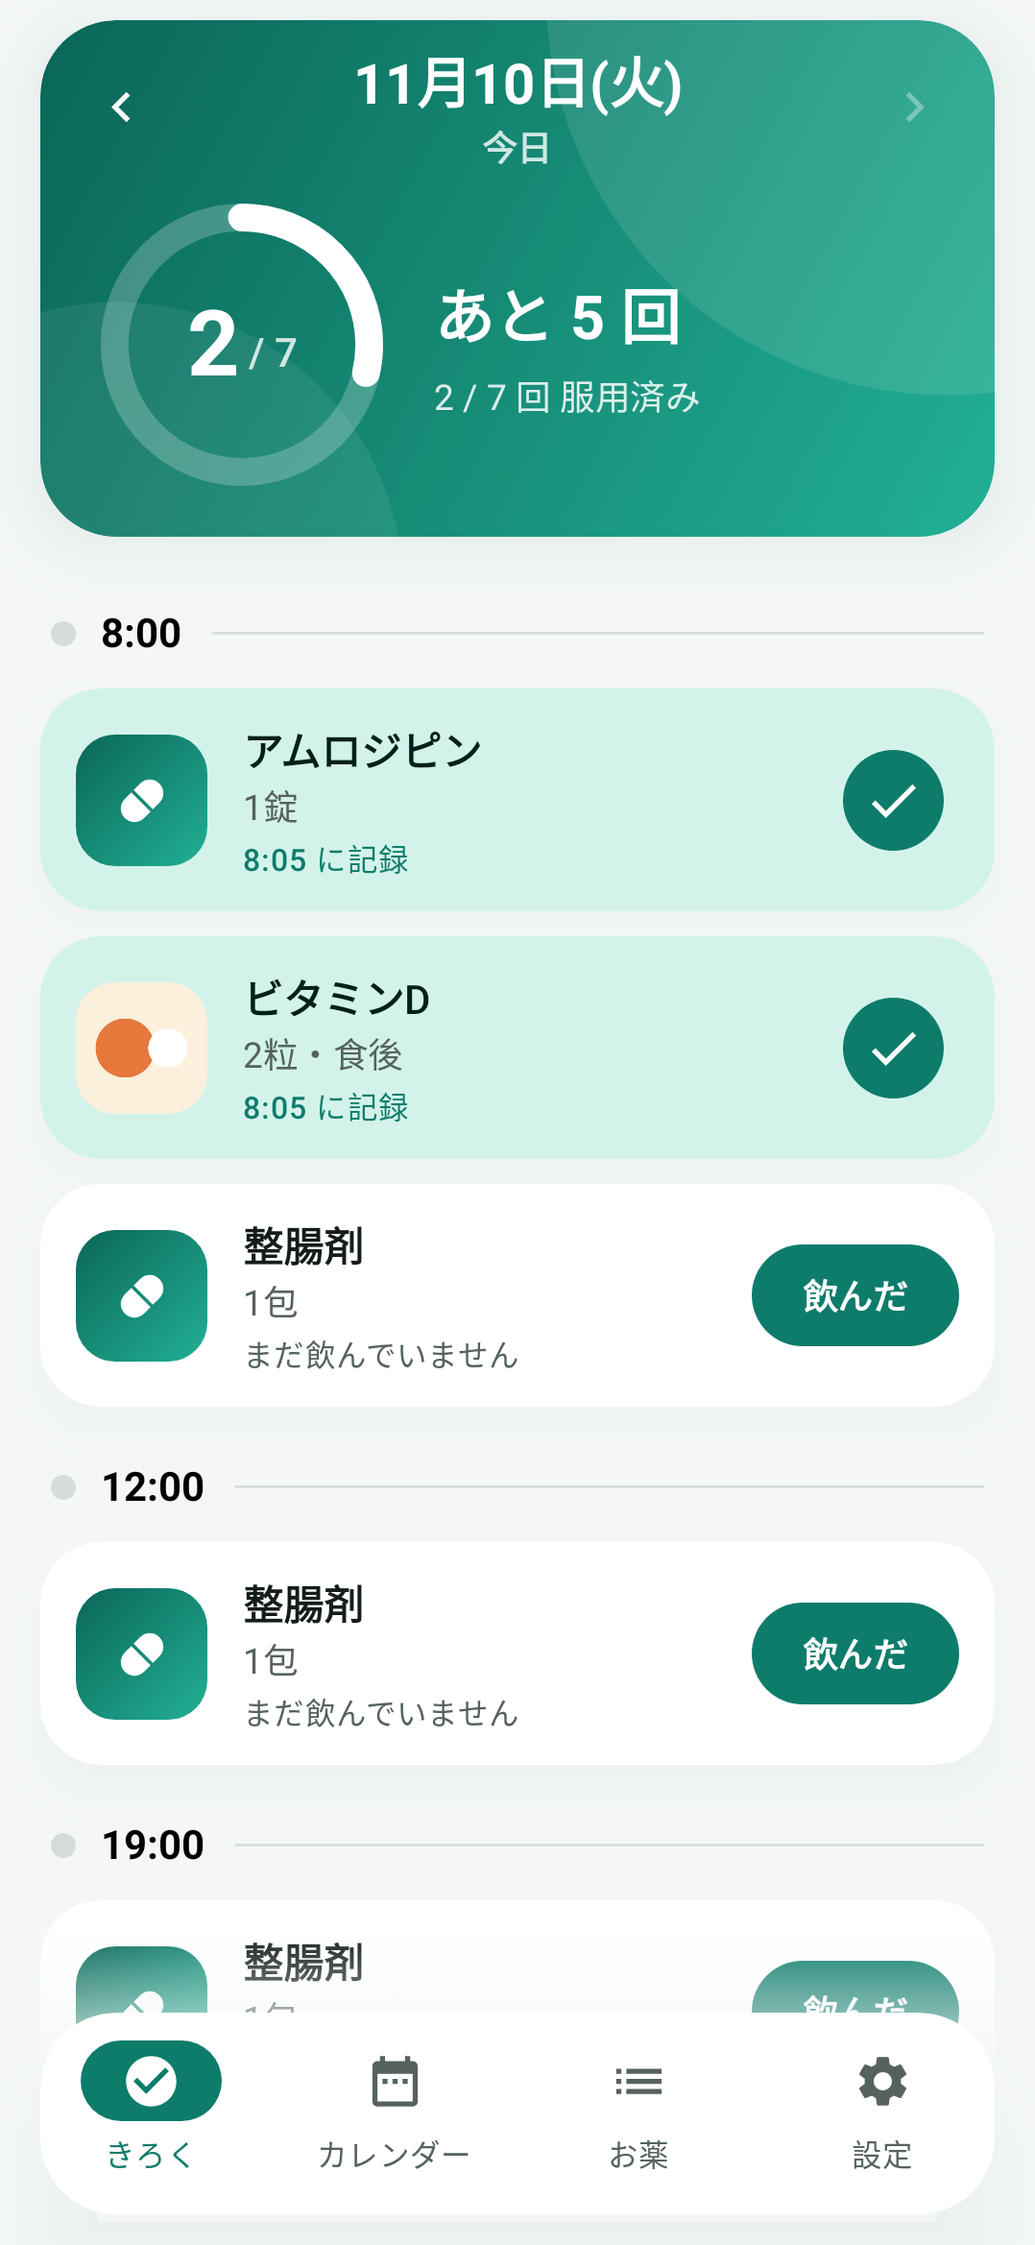
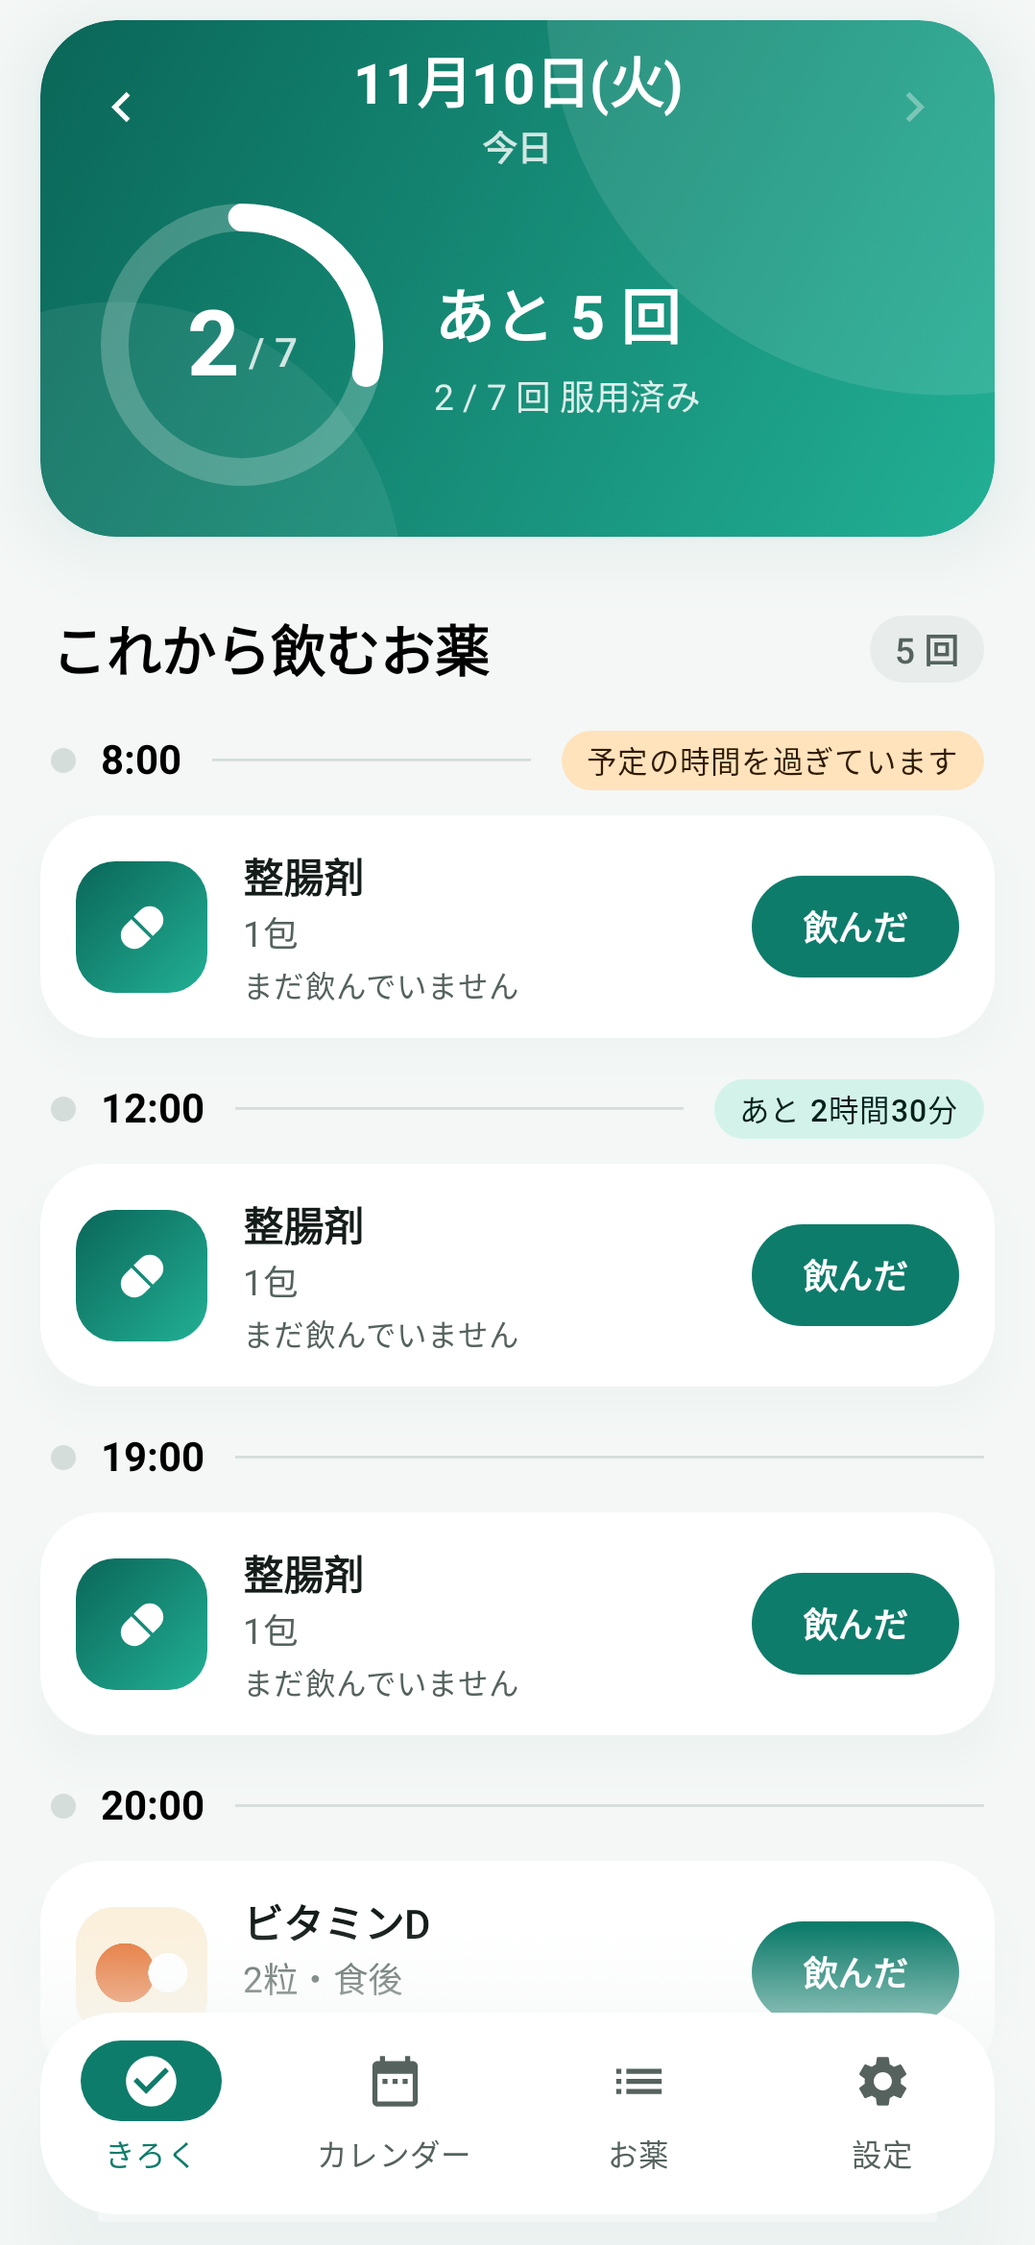
List upcoming doses first on the record screen
- Doses still to take are grouped at the top in time order; doses
  already taken move to a section below
- Overdue times are flagged and the next dose shows the time remaining,
  refreshed every minute
- Past days list unrecorded doses first, without the countdown
- The current day now rolls over while the app stays open

Claude-Session: https://claude.ai/code/session_012W76YSFN4Az95kBbBAUA25

Changed region(s): [[0.0306, 0.281, 0.9796, 0.9055], [0.7041, 0.6869, 0.949, 0.7806], [0.7041, 0.843, 0.949, 0.9055]]

diff --git a/app/src/main/java/app/okusurikiroku/ui/TodayScreen.kt b/app/src/main/java/app/okusurikiroku/ui/TodayScreen.kt
@@ -44,6 +44,7 @@ import androidx.compose.material3.IconButton
 import androidx.compose.material3.IconButtonDefaults
 import androidx.compose.material3.MaterialTheme
 import androidx.compose.material3.OutlinedButton
+import androidx.compose.material3.Surface
 import androidx.compose.material3.Text
 import androidx.compose.material3.TextButton
 import androidx.compose.runtime.Composable
@@ -84,6 +85,8 @@ fun TodayScreen(
     onDayChange: (Long) -> Unit,
     onSetTaken: (DoseEntry, Boolean) -> Unit,
     onAddMedication: () -> Unit,
+    /** 現在時刻（0時からの分）。今日を表示しているときの「あと◯分」に使う。わからなければ null。 */
+    nowMinute: Int? = null,
 ) {
     var undoTarget by remember { mutableStateOf<DoseEntry?>(null) }
     var enlarged by remember { mutableStateOf<Medication?>(null) }
@@ -133,24 +136,73 @@ fun TodayScreen(
                     ),
                     verticalArrangement = Arrangement.spacedBy(10.dp),
                 ) {
-                    entries.groupBy { it.minuteOfDay }.forEach { (minute, group) ->
-                        item(key = "time-$minute") {
-                            TimeHeader(minute = minute, group = group, modifier = Modifier.animateItem())
-                        }
-                        items(group, key = { "${it.medication.id}-${it.minuteOfDay}" }) { entry ->
-                            DoseCard(
-                                entry = entry,
+                    // これから飲む分を時間順に上へ、飲んだ分はその下へ分ける。
+                    // 記録するとカードは同じキーのまま下の区分へ移るので、動いて見える。
+                    val (pending, taken) = entries.partition { !it.taken }
+                    val now = nowMinute.takeIf { day == today }
+                    val doseCard: @Composable (DoseEntry, Modifier) -> Unit = { entry, modifier ->
+                        DoseCard(
+                            entry = entry,
+                            modifier = modifier,
+                            onClick = {
+                                if (entry.taken) {
+                                    undoTarget = entry
+                                } else {
+                                    haptics.performHapticFeedback(HapticFeedbackType.Confirm)
+                                    onSetTaken(entry, true)
+                                }
+                            },
+                            onImageClick = { enlarged = entry.medication },
+                        )
+                    }
+
+                    if (pending.isNotEmpty()) {
+                        item(key = "pending-title") {
+                            SectionHeader(
+                                title = stringResource(
+                                    if (day == today) R.string.section_upcoming else R.string.section_unrecorded,
+                                ),
+                                count = pending.size,
                                 modifier = Modifier.animateItem(),
-                                onClick = {
-                                    if (entry.taken) {
-                                        undoTarget = entry
-                                    } else {
-                                        haptics.performHapticFeedback(HapticFeedbackType.Confirm)
-                                        onSetTaken(entry, true)
-                                    }
-                                },
-                                onImageClick = { enlarged = entry.medication },
                             )
+                        }
+                        // 「あと◯分」は、まだ時間が来ていない中でいちばん早い回にだけ出す
+                        val nextMinute = now?.let { current -> pending.map { it.minuteOfDay }.filter { it >= current }.minOrNull() }
+                        pending.groupBy { it.minuteOfDay }.forEach { (minute, group) ->
+                            item(key = "pending-time-$minute") {
+                                TimeHeader(
+                                    minute = minute,
+                                    done = false,
+                                    status = when {
+                                        now == null -> null
+                                        minute < now -> DueStatus.Overdue
+                                        minute == nextMinute -> DueStatus.In(minute - now)
+                                        else -> null
+                                    },
+                                    modifier = Modifier.animateItem(),
+                                )
+                            }
+                            items(group, key = { "${it.medication.id}-${it.minuteOfDay}" }) { entry ->
+                                doseCard(entry, Modifier.animateItem())
+                            }
+                        }
+                    }
+
+                    if (taken.isNotEmpty()) {
+                        item(key = "taken-title") {
+                            SectionHeader(
+                                title = stringResource(R.string.section_taken_list),
+                                count = taken.size,
+                                modifier = Modifier.animateItem(),
+                            )
+                        }
+                        taken.groupBy { it.minuteOfDay }.forEach { (minute, group) ->
+                            item(key = "taken-time-$minute") {
+                                TimeHeader(minute = minute, done = true, status = null, modifier = Modifier.animateItem())
+                            }
+                            items(group, key = { "${it.medication.id}-${it.minuteOfDay}" }) { entry ->
+                                doseCard(entry, Modifier.animateItem())
+                            }
                         }
                     }
                 }
@@ -320,29 +372,89 @@ private fun HeroCard(day: Long, today: Long, summary: DaySummary?, onDayChange: 
     }
 }
 
-/** 時間ごとの見出し。その時間の分をすべて飲むと、丸に色がつく。 */
+/** 時間の見出しの横に出す、予定までの残り時間。 */
+private sealed interface DueStatus {
+    data object Overdue : DueStatus
+
+    data class In(val minutes: Int) : DueStatus
+}
+
+/** 「これから飲むお薬」「飲んだお薬」の区分の見出し。 */
 @Composable
-private fun TimeHeader(minute: Int, group: List<DoseEntry>, modifier: Modifier = Modifier) {
-    val taken = group.count { it.taken }
-    val dotColor by animateColorAsState(
-        if (taken == group.size) MaterialTheme.colorScheme.primary else MaterialTheme.colorScheme.outlineVariant,
-        label = "timeDot",
-    )
+private fun SectionHeader(title: String, count: Int, modifier: Modifier = Modifier) {
     Row(
         verticalAlignment = Alignment.CenterVertically,
         modifier = modifier
             .fillMaxWidth()
-            .padding(start = 4.dp, end = 4.dp, top = 10.dp),
+            .padding(start = 4.dp, end = 4.dp, top = 12.dp),
+    ) {
+        Text(title, style = MaterialTheme.typography.titleLarge, modifier = Modifier.weight(1f))
+        Surface(
+            color = MaterialTheme.colorScheme.surfaceContainerHigh,
+            contentColor = MaterialTheme.colorScheme.onSurfaceVariant,
+            shape = RoundedCornerShape(50),
+        ) {
+            Text(
+                stringResource(R.string.dose_count, count),
+                style = MaterialTheme.typography.labelLarge,
+                modifier = Modifier.padding(horizontal = 10.dp, vertical = 3.dp),
+            )
+        }
+    }
+}
+
+/** 時間ごとの見出し。飲んだ分は丸に色がつき、これから飲む分には残り時間を添える。 */
+@Composable
+private fun TimeHeader(minute: Int, done: Boolean, status: DueStatus?, modifier: Modifier = Modifier) {
+    Row(
+        verticalAlignment = Alignment.CenterVertically,
+        modifier = modifier
+            .fillMaxWidth()
+            .padding(start = 4.dp, end = 4.dp, top = 6.dp),
     ) {
         Box(
             Modifier
                 .size(10.dp)
-                .background(dotColor, CircleShape),
+                .background(
+                    if (done) MaterialTheme.colorScheme.primary else MaterialTheme.colorScheme.outlineVariant,
+                    CircleShape,
+                ),
         )
         Spacer(Modifier.width(10.dp))
         Text(formatMinutes(minute), style = MaterialTheme.typography.titleMedium, fontWeight = FontWeight.Bold)
         Spacer(Modifier.width(12.dp))
         HorizontalDivider(Modifier.weight(1f), color = MaterialTheme.colorScheme.outlineVariant)
+        if (status != null) {
+            Spacer(Modifier.width(12.dp))
+            val overdue = status is DueStatus.Overdue
+            Surface(
+                color = if (overdue) MaterialTheme.colorScheme.tertiaryContainer else MaterialTheme.colorScheme.primaryContainer,
+                contentColor = if (overdue) {
+                    MaterialTheme.colorScheme.onTertiaryContainer
+                } else {
+                    MaterialTheme.colorScheme.onPrimaryContainer
+                },
+                shape = RoundedCornerShape(50),
+            ) {
+                Text(
+                    when (status) {
+                        DueStatus.Overdue -> stringResource(R.string.overdue)
+                        is DueStatus.In -> when {
+                            status.minutes == 0 -> stringResource(R.string.due_now)
+                            status.minutes < 60 -> stringResource(R.string.due_in_minutes, status.minutes)
+                            status.minutes % 60 == 0 -> stringResource(R.string.due_in_hours, status.minutes / 60)
+                            else -> stringResource(
+                                R.string.due_in_hours_minutes,
+                                status.minutes / 60,
+                                status.minutes % 60,
+                            )
+                        }
+                    },
+                    style = MaterialTheme.typography.labelMedium,
+                    modifier = Modifier.padding(horizontal = 10.dp, vertical = 3.dp),
+                )
+            }
+        }
     }
 }
 

diff --git a/app/src/test/java/app/okusurikiroku/EffectsTest.kt b/app/src/test/java/app/okusurikiroku/EffectsTest.kt
@@ -36,6 +36,74 @@ class EffectsTest {
         Medication(id = 2, name = "整腸剤", dosage = "1包", times = listOf(480), startDay = 0),
     )
 
+    private fun top(text: String): Float =
+        compose.onNodeWithText(text).fetchSemanticsNode().boundsInRoot.top
+
+    @Test
+    fun upcomingDosesAreListedFirstInTimeOrder() {
+        val noon = Medication(id = 3, name = "ビタミンC", times = listOf(720), startDay = 0)
+        val evening = Medication(id = 4, name = "鉄剤", times = listOf(1140), startDay = 0)
+        var entries by mutableStateOf(
+            listOf(
+                DoseEntry(medications[0], 480, 1_000L), // 8:00 飲んだ
+                DoseEntry(medications[1], 480, null), // 8:00 まだ（時間を過ぎている）
+                DoseEntry(noon, 720, null), // 12:00 まだ
+                DoseEntry(evening, 1140, null), // 19:00 まだ
+            ),
+        )
+        compose.setContent {
+            OkusuriTheme(darkTheme = false) {
+                TodayScreen(
+                    day = today,
+                    today = today,
+                    entries = entries,
+                    hasMedications = true,
+                    onDayChange = {},
+                    onSetTaken = { entry, taken ->
+                        entries = entries.map { if (it == entry) it.copy(takenAt = if (taken) 2_000L else null) else it }
+                    },
+                    onAddMedication = {},
+                    nowMinute = 9 * 60 + 30,
+                )
+            }
+        }
+
+        // これから飲む分が時間順に上、飲んだ分が下
+        val order = listOf("これから飲むお薬", "整腸剤", "ビタミンC", "鉄剤", "飲んだお薬", "アムロジピン").map(::top)
+        assertEquals(order.sorted(), order)
+        // 過ぎた回と、次の回までの時間
+        compose.onNodeWithText("予定の時間を過ぎています").assertExists()
+        compose.onNodeWithText("あと 2時間30分").assertExists()
+
+        // 記録すると、そのお薬は「飲んだお薬」へ移る
+        compose.onAllNodesWithTextCompat("飲んだ").first().performClick()
+        compose.waitForIdle()
+        val after = listOf("これから飲むお薬", "ビタミンC", "鉄剤", "飲んだお薬", "アムロジピン", "整腸剤").map(::top)
+        assertEquals(after.sorted(), after)
+        compose.onNodeWithText("予定の時間を過ぎています").assertDoesNotExist()
+    }
+
+    @Test
+    fun pastDaysListUnrecordedDosesFirstWithoutCountdown() {
+        compose.setContent {
+            OkusuriTheme(darkTheme = false) {
+                TodayScreen(
+                    day = today - 1,
+                    today = today,
+                    entries = listOf(DoseEntry(medications[0], 480, 1_000L), DoseEntry(medications[1], 480, null)),
+                    hasMedications = true,
+                    onDayChange = {},
+                    onSetTaken = { _, _ -> },
+                    onAddMedication = {},
+                    nowMinute = 9 * 60 + 30,
+                )
+            }
+        }
+        compose.onNodeWithText("記録していないお薬").assertExists()
+        compose.onNodeWithText("これから飲むお薬").assertDoesNotExist()
+        compose.onNodeWithText("予定の時間を過ぎています").assertDoesNotExist()
+    }
+
     @Test
     fun takingTheLastDoseCelebratesWithConfetti() {
         var entries by mutableStateOf(

diff --git a/app/src/main/java/app/okusurikiroku/ui/App.kt b/app/src/main/java/app/okusurikiroku/ui/App.kt
@@ -52,6 +52,8 @@ import androidx.compose.material3.NavigationBarItem
 import androidx.compose.material3.Text
 import androidx.compose.runtime.Composable
 import androidx.compose.runtime.getValue
+import androidx.compose.runtime.mutableIntStateOf
+import androidx.compose.runtime.produceState
 import androidx.compose.runtime.mutableStateOf
 import androidx.compose.runtime.saveable.rememberSaveable
 import androidx.compose.runtime.setValue
@@ -65,6 +67,8 @@ import androidx.lifecycle.compose.collectAsStateWithLifecycle
 import androidx.lifecycle.viewmodel.compose.viewModel
 import app.okusurikiroku.R
 import app.okusurikiroku.reminder.Reminders
+import java.time.LocalTime
+import kotlinx.coroutines.delay
 
 enum class Tab(val labelRes: Int, val icon: ImageVector) {
     TODAY(R.string.tab_today, Icons.Filled.CheckCircle),
@@ -98,10 +102,22 @@ fun OkusuriAppUi(viewModel: AppViewModel = viewModel(factory = AppViewModel.Fact
     val activeMedications = allMedications?.filter { !it.isArchived }
 
     val hasReminders = activeMedications?.any { it.reminderEnabled && (it.periodEnd ?: Long.MAX_VALUE) >= today } == true
+    // 画面に戻るたびに数え直す。現在時刻を読み直すきっかけにもする
+    var resumeCount by remember { mutableIntStateOf(0) }
     LifecycleResumeEffect(Unit) {
         viewModel.onResume()
         notice = reminderNotice(context)
+        resumeCount++
         onPauseOrDispose { }
+    }
+    // 現在時刻（0時からの分）。「あと◯分」の表示のため、分が変わるたびに更新する
+    val nowMinute by produceState(initialValue = currentMinuteOfDay(), resumeCount) {
+        value = currentMinuteOfDay()
+        while (true) {
+            delay((60 - LocalTime.now().second) * 1000L)
+            value = currentMinuteOfDay()
+            viewModel.refreshToday()
+        }
     }
     val permissionLauncher = rememberLauncherForActivityResult(ActivityResultContracts.RequestPermission()) {
         notice = reminderNotice(context)
@@ -155,6 +171,7 @@ fun OkusuriAppUi(viewModel: AppViewModel = viewModel(factory = AppViewModel.Fact
                         day = selectedDay,
                         today = today,
                         entries = dayEntries,
+                        nowMinute = nowMinute,
                         hasMedications = activeMedications?.isNotEmpty() == true,
                         onDayChange = viewModel::selectDay,
                         onSetTaken = viewModel::setTaken,
@@ -279,6 +296,8 @@ fun MainTabs(tab: Tab, onTabChange: (Tab) -> Unit, content: @Composable (Tab) ->
         }
     }
 }
+
+private fun currentMinuteOfDay(): Int = LocalTime.now().toSecondOfDay() / 60
 
 private fun needsNotificationPermission(context: Context): Boolean =
     Build.VERSION.SDK_INT >= Build.VERSION_CODES.TIRAMISU &&

diff --git a/app/src/main/java/app/okusurikiroku/ui/AppViewModel.kt b/app/src/main/java/app/okusurikiroku/ui/AppViewModel.kt
@@ -68,12 +68,17 @@ class AppViewModel(application: Application) : AndroidViewModel(application) {
 
     /** 画面に戻ったとき。日付が変わっていたら「今日」を進める。 */
     fun onResume() {
+        refreshToday()
+        viewModelScope.launch { Reminders.scheduleNext(getApplication()) }
+    }
+
+    /** 日付が変わっていたら「今日」を進める。画面を開いたまま日をまたいだときにも呼ぶ。 */
+    fun refreshToday() {
         val now = LocalDate.now().toEpochDay()
         if (now != today.value) {
             if (selectedDay.value == today.value) selectedDay.value = now
             today.value = now
         }
-        viewModelScope.launch { Reminders.scheduleNext(getApplication()) }
     }
 
     fun selectDay(day: Long) {

diff --git a/app/src/test/java/app/okusurikiroku/ScreenshotTest.kt b/app/src/test/java/app/okusurikiroku/ScreenshotTest.kt
@@ -91,7 +91,7 @@ class ScreenshotTest {
     @Composable
     private fun Today(entries: List<DoseEntry>, hasMedications: Boolean = true, day: Long = today) {
         MainTabs(Tab.TODAY, {}) {
-            TodayScreen(day, today, entries, hasMedications, {}, { _, _ -> }, {})
+            TodayScreen(day, today, entries, hasMedications, {}, { _, _ -> }, {}, nowMinute = 9 * 60 + 30)
         }
     }
 

diff --git a/README.md b/README.md
@@ -21,7 +21,8 @@
     （初期値: 食前は食事の30分前、食後は食事の60分後）
   - **服用期間** — 開始日と終了日を選択（「7日間」「14日間」「30日間」からも指定可能）。
     終了日を過ぎると、きろくと通知に出なくなる。開始日は先の日付にも、さかのぼった日付にもできる
-- **きろく** — その日に飲むお薬が時間順に並び、「飲んだ」を押すと記録した時刻つきで保存。
+- **きろく** — これから飲むお薬を時間順に一番上へ、飲んだお薬はその下に表示。
+  時間を過ぎた回には印が付き、次の回には「あと◯時間◯分」と出る。「飲んだ」を押すと記録した時刻つきで保存。
   記録済みをタップすると確認のうえ取り消し。過去の日にさかのぼって確認・修正も可能
 - **カレンダー** — 日ごとの「飲んだ回数/予定回数」と、月の服用率を表示
 - **リマインダー** — 飲む時間に通知。通知の「飲んだ」ボタンからそのまま記録可能（お薬ごとにオン/オフ）
